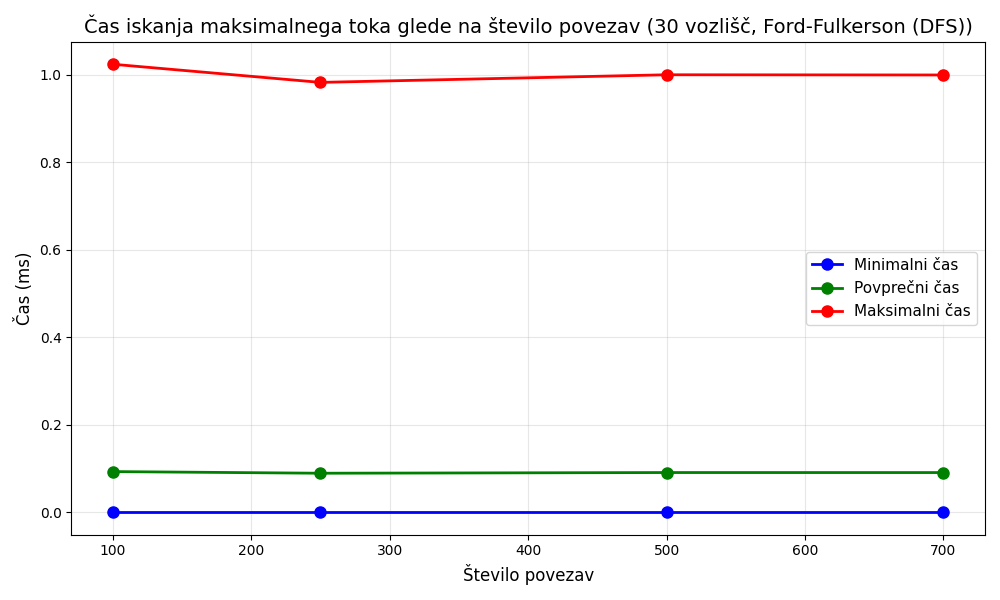
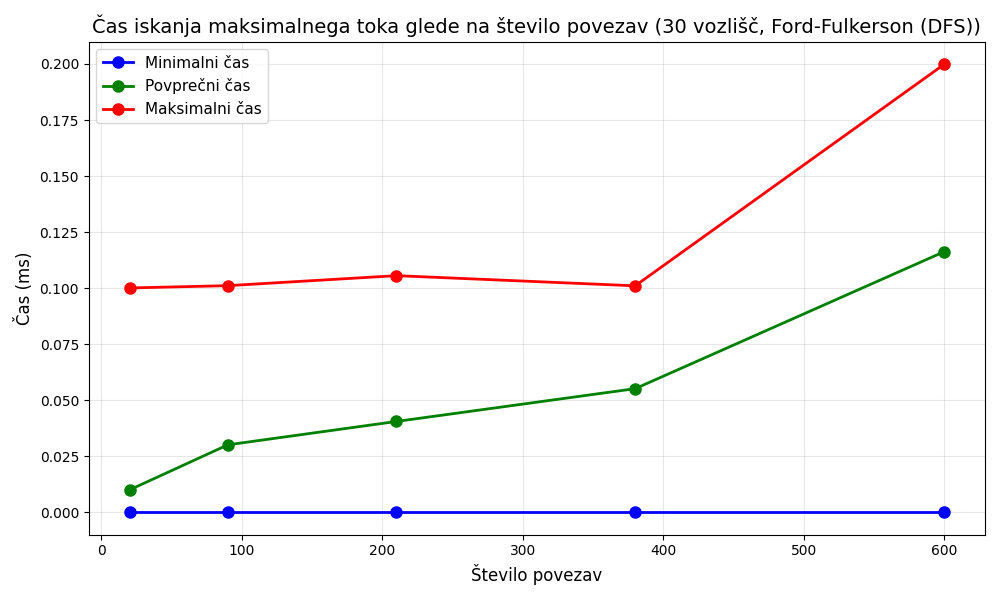
Finished implementation

diff --git a/test.py b/test.py
@@ -5,26 +5,36 @@ import matplotlib.pyplot as plt
 
 NUMBER_OF_ITERATIONS = 10
 
+
 def test_time_vs_nodes(algorithm_func, algorithm_name):
+    global node_count
     results = []
 
     for i in range(1, 6):
-        graph, node_count, conn_count = parse_file(f"generated/generated_{i}.txt")
+        times_for_dimension = []
 
-        times = []
-        for j in range(NUMBER_OF_ITERATIONS + 1):
-            start = time.time()
-            max_flow, flows = ford_fulkerson(graph, 1, node_count, algorithm_func)
-            times.append((time.time() - start) * 1000)
+        for j in range(1, 11):
+            graph, node_count, conn_count = parse_file(f"generated/generated_{j}_{i}.txt")
 
-        results.append((int(node_count), min(times), sum(times) / len(times), max(times)))
+            times = []
+            for x in range(NUMBER_OF_ITERATIONS):
+                start = time.time()
+                ford_fulkerson(graph, 1, node_count, algorithm_func)
+                times.append((time.time() - start) * 1000)
 
-    results.sort(key=lambda x: x[0])
+            times_for_dimension.append(sum(times)/len(times))
 
-    nodes = [r[0] for r in results]
-    min_times = [r[1] for r in results]
-    avg_times = [r[2] for r in results]
-    max_times = [r[3] for r in results]
+        results.append((
+            int(node_count),
+            min(times_for_dimension),
+            sum(times_for_dimension) / len(times_for_dimension),
+            max(times_for_dimension)
+        ))
+
+    nodes = [dim[0] for dim in results]
+    min_times = [dim[1] for dim in results]
+    avg_times = [dim[2] for dim in results]
+    max_times = [dim[3] for dim in results]
 
     plt.figure(figsize=(10, 6))
     plt.plot(nodes, min_times, 'b-o', linewidth=2, markersize=8, label='Minimalni čas')
@@ -40,27 +50,34 @@ def test_time_vs_nodes(algorithm_func, algorithm_name):
 
 
 def test_time_vs_edges(algorithm_func, algorithm_name):
+    global conn_count
     results = []
 
-    for i in range(6, 10):
-        graph, node_count, conn_count = parse_file(f"generated/generated_{i}.txt")
-        node_count = int(node_count)
-        conn_count = int(conn_count)
+    for i in range(1, 6):
+        times_for_dimension = []
 
-        times = []
-        for j in range(NUMBER_OF_ITERATIONS + 1):
-            start = time.time()
-            max_flow, flows = ford_fulkerson(graph, 1, node_count, algorithm_func)
-            times.append((time.time() - start) * 1000)
+        for j in range(1, 11):
+            graph, node_count, conn_count = parse_file(f"generated/generated_{j}_{i}.txt")
 
-        results.append((conn_count, min(times), sum(times) / len(times), max(times)))
+            times = []
+            for x in range(NUMBER_OF_ITERATIONS):
+                start = time.time()
+                ford_fulkerson(graph, 1, node_count, algorithm_func)
+                times.append((time.time() - start) * 1000)
 
-    results.sort(key=lambda x: x[0])
+            times_for_dimension.append(sum(times)/len(times))
 
-    edges = [r[0] for r in results]
-    min_times = [r[1] for r in results]
-    avg_times = [r[2] for r in results]
-    max_times = [r[3] for r in results]
+        results.append((
+            int(conn_count),
+            min(times_for_dimension),
+            sum(times_for_dimension) / len(times_for_dimension),
+            max(times_for_dimension)
+        ))
+
+    edges = [dim[0] for dim in results]
+    min_times = [dim[1] for dim in results]
+    avg_times = [dim[2] for dim in results]
+    max_times = [dim[3] for dim in results]
 
     plt.figure(figsize=(10, 6))
     plt.plot(edges, min_times, 'b-o', linewidth=2, markersize=8, label='Minimalni čas')
@@ -114,16 +131,18 @@ def generate_test_files():
     generated_file_name = input("File name: ")
 
     pairs = [
-        (5, 20),  # full graph for 5 nodes
-        (10, 90),  # full graph for 10 nodes
-        (15, 210),  # full graph for 15 nodes
-        (20, 380),  # full graph for 20 nodes
-        (25, 600),  # full graph for 25 nodes
-        (30, 100),  # sparse graph for 30 nodes
+        # Full graphs
+        (5, 20),
+        (10, 90),
+        (15, 210),
+        (20, 380),
+        (25, 600),
+        # sparse graphs
+        (30, 100),
         (30, 250),
         (30, 500),
         (30, 700),
-        (30, 870)  # full graph for 30 nodes
+        (30, 870)
     ]
 
     for i in range (1, 11):

diff --git a/README.md b/README.md
@@ -4,10 +4,13 @@ Pri tej nalogi sem implementiral algoritem iskanja največjega toka v grafu z up
 
 ## Analiza
 
-![time_vs_nodes_ford_fulkerson_(dfs).png](images%2Ftime_vs_nodes_ford_fulkerson_%28dfs%29.png)
+Meritve so bile izvedene za deset različnih velikosti grafov, pri čemer je bila vsaka velikost testirana na desetih različnih naključno generiranih grafih. 
+Za zmanjšanje vpliva merilnega šuma je bila vsaka meritev izvedena desetkrat, končni čas izvajanja pa je bil določen kot povprečje teh ponovitev.
 
 ![time_vs_nodes_edmonds_karp_(bfs).png](images%2Ftime_vs_nodes_edmonds_karp_%28bfs%29.png)
 
-![time_vs_edge_count_ford_fuelkerson_(dfs).png](images%2Ftime_vs_edge_count_ford_fuelkerson_%28dfs%29.png)
+![time_vs_nodes_ford_fulkerson_(dfs).png](images%2Ftime_vs_nodes_ford_fulkerson_%28dfs%29.png)
 
-![time_vs_edge_count_edmond_karps_(bfs).png.png](images%2Ftime_vs_edge_count_edmond_karps_%28bfs%29.png.png)
+![time_vs_edge_count_edmond_karps_(bfs).png](images%2Ftime_vs_edge_count_edmond_karps_%28bfs%29.png)
+
+![time_vs_edge_count_ford_fuelkerson_(dfs).png](images%2Ftime_vs_edge_count_ford_fuelkerson_%28dfs%29.png)
